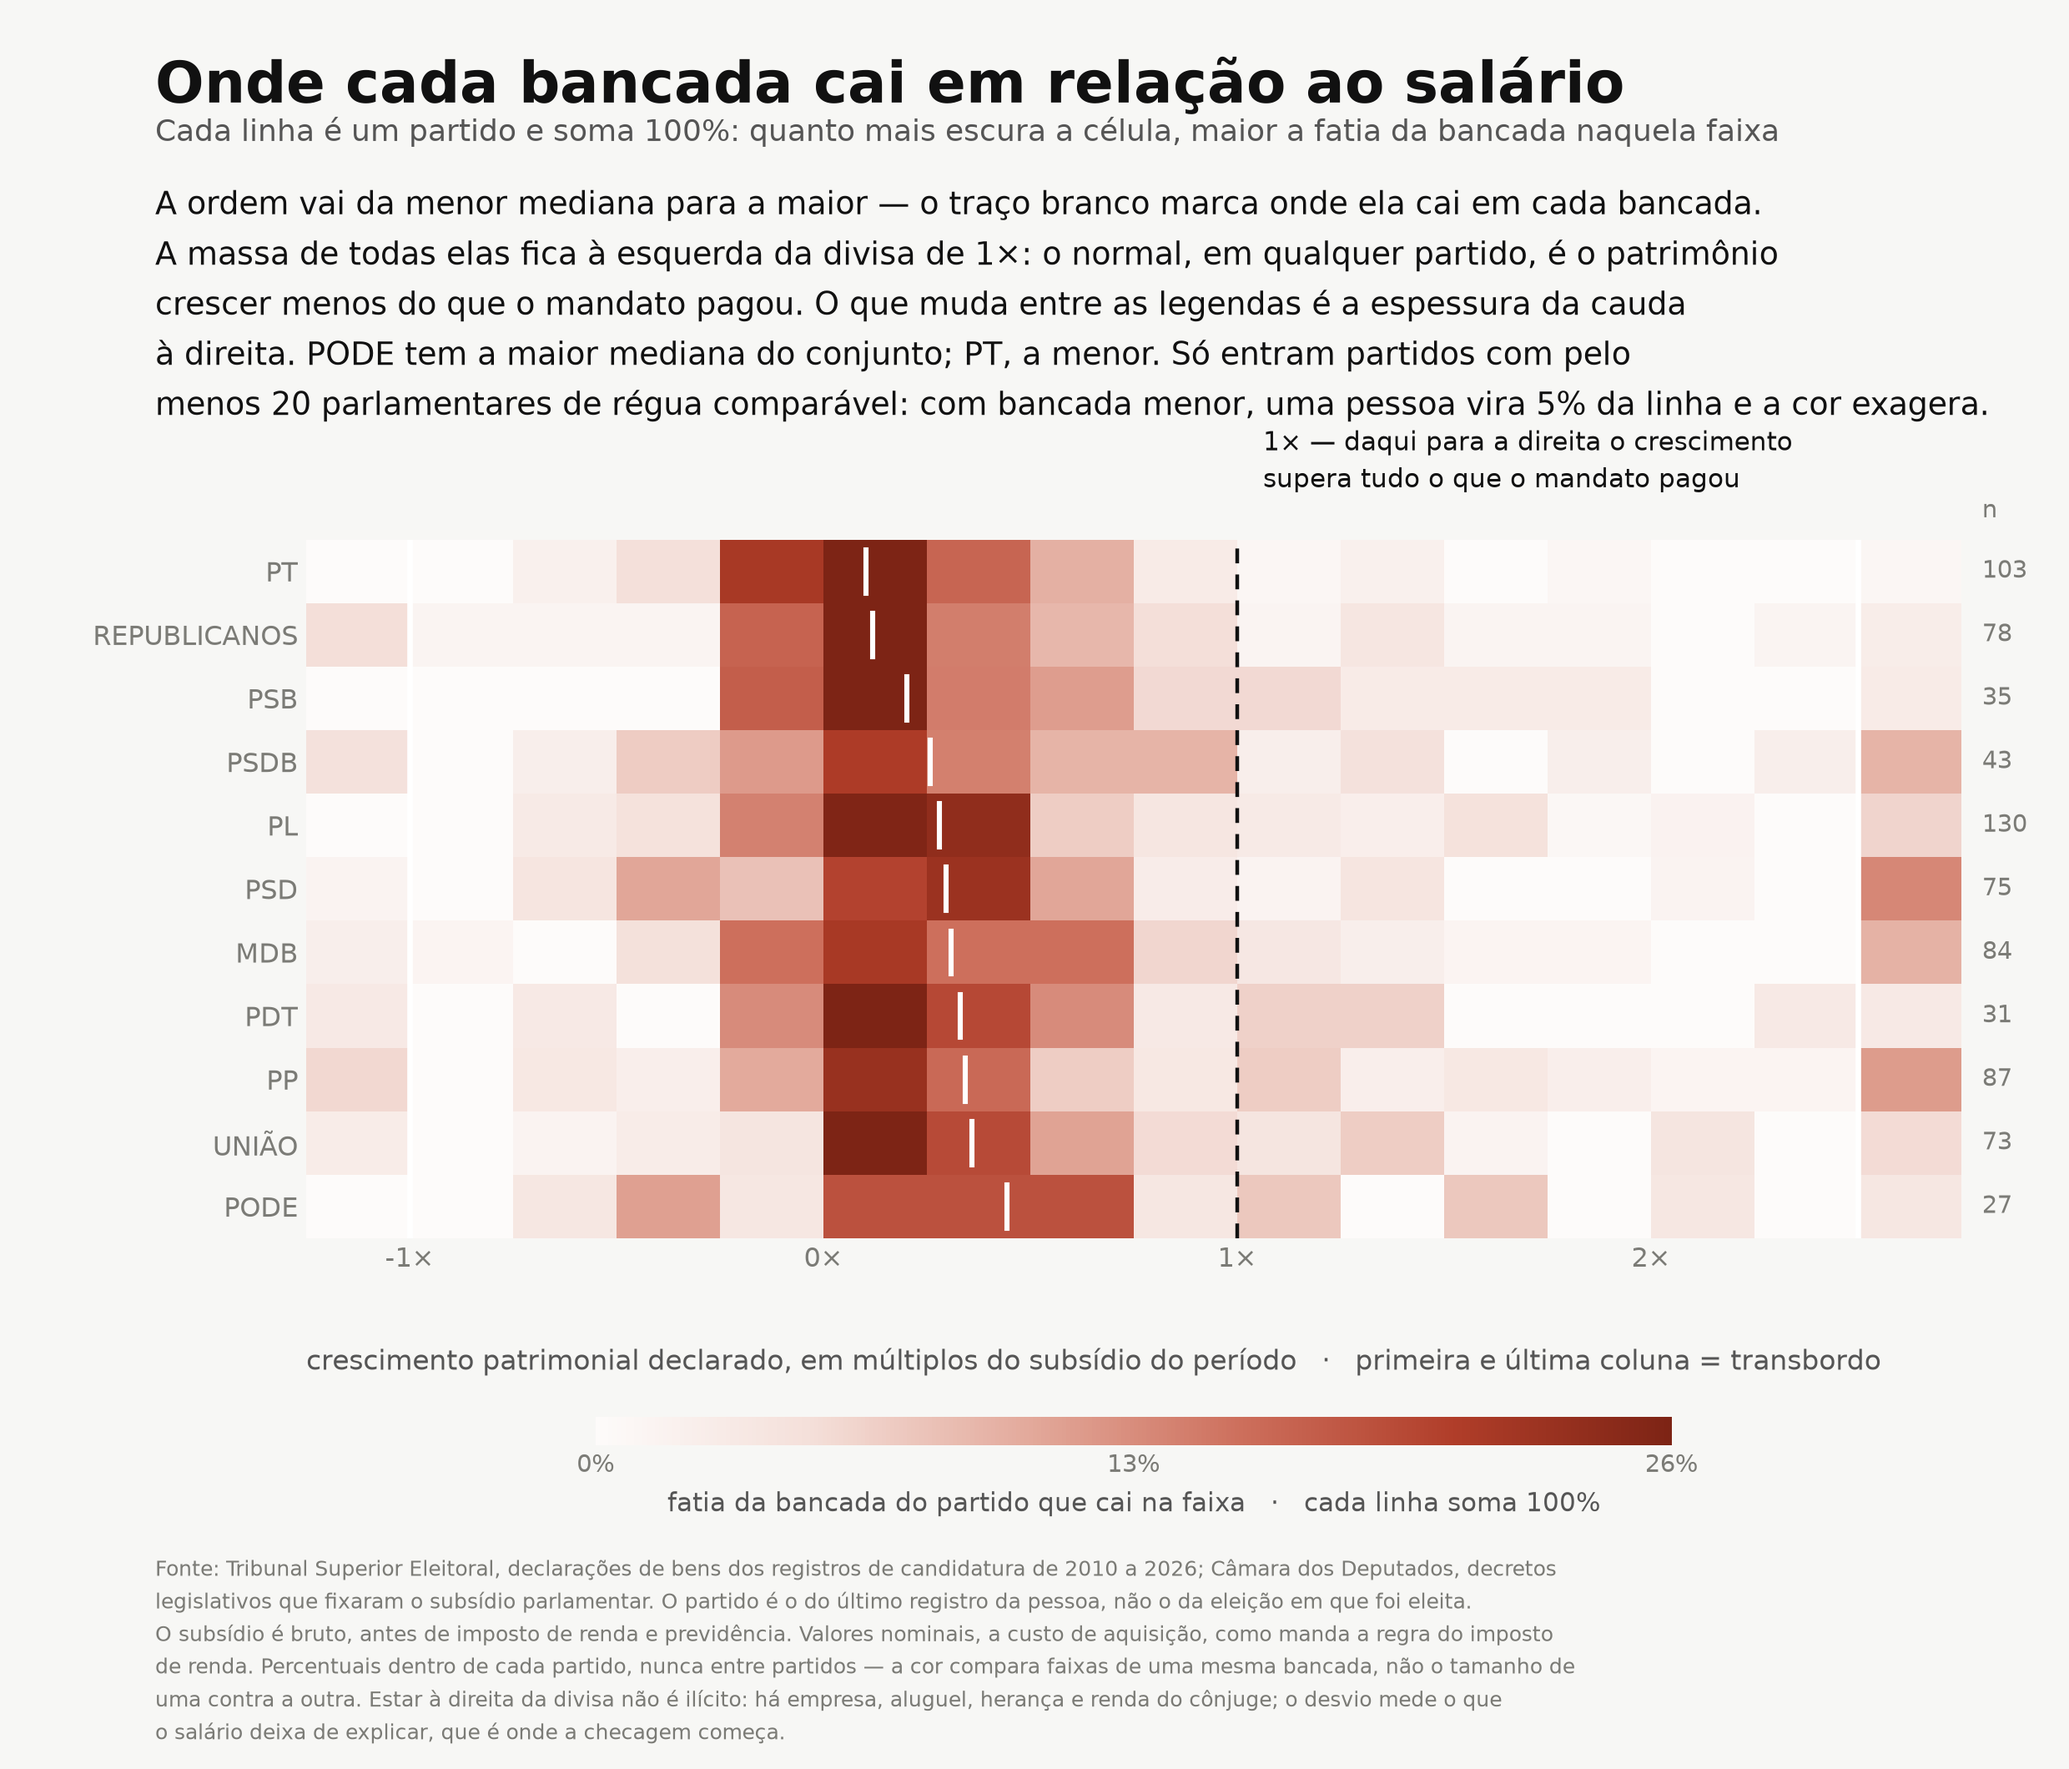
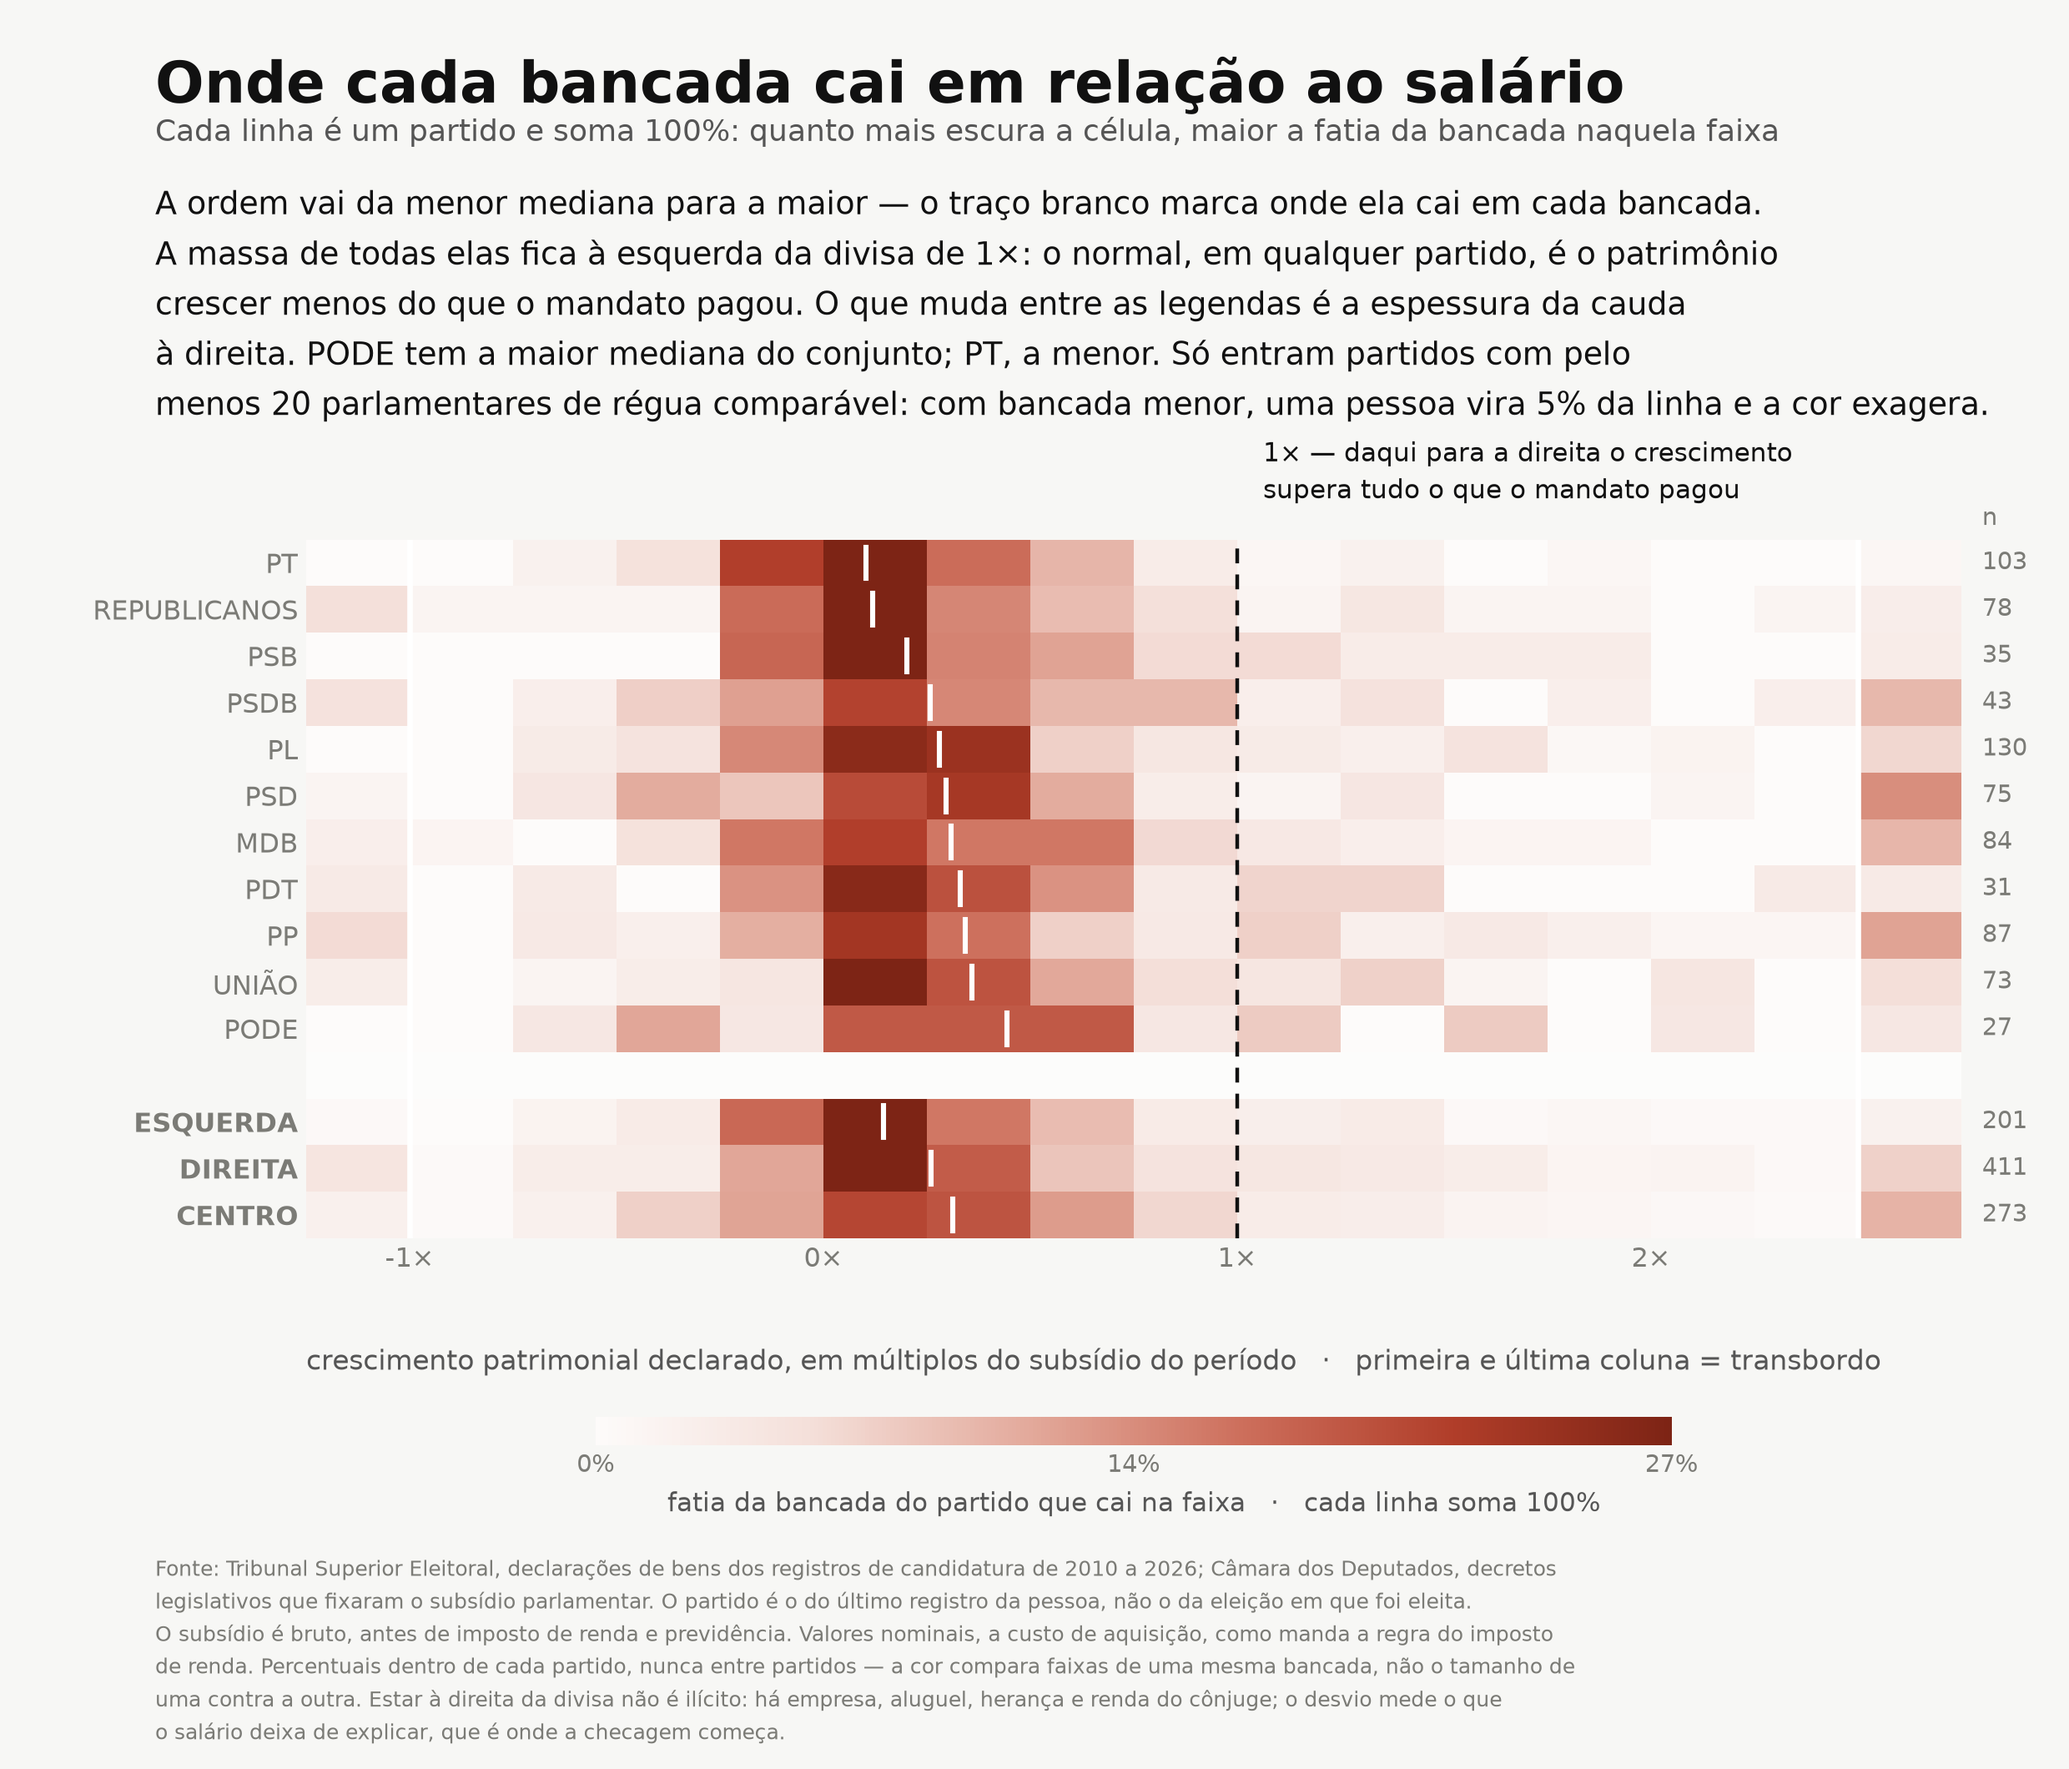
feat: agrega os blocos ideológicos no mapa de calor por partido
As três últimas linhas passam a trazer esquerda, centro e direita na mesma
escala das linhas de partido, porque a comparação entre blocos só se lê
junto com a variação dentro de cada um.

A esquerda tem metade da proporção acima da linha (10%) das outras duas,
mas centro e direita são indistinguíveis entre si — 19% e 20% —, o que
derruba a leitura de que o eixo esquerda-direita organize o fenômeno: se
organizasse, o centro ficaria no meio.

Cada bloco cobre quase toda a amplitude dos outros: direita de 0,12x
(REPUBLICANOS) a 0,36x (UNIÃO), centro de 0,26x (PSDB) a 0,44x (PODE),
esquerda de 0,10x (PT) a 0,33x (PDT). O que domina é a variação entre
pessoas da mesma legenda.

diff --git a/scripts/plot_partidos_desvio_regua.py b/scripts/plot_partidos_desvio_regua.py
@@ -50,9 +50,16 @@ RAMPA = LinearSegmentedColormap.from_list("rodado_seq", [
 
 
 def carrega(caminho):
+    """Devolve (partidos com bancada suficiente, os três blocos ideológicos).
+
+    Os blocos entram no mesmo mapa, embaixo, porque a pergunta "direita ou
+    esquerda" só se responde na mesma escala das linhas de partido — e a
+    resposta depende de ver as duas camadas juntas: a variação entre partidos
+    de um mesmo bloco é maior do que a variação entre os blocos.
+    """
     doc = json.loads(Path(caminho).read_text(encoding="utf-8"))
-    partidos = doc["meta"]["partidos"]
-    por_partido = {}
+    partidos, espectros = doc["meta"]["partidos"], doc["meta"]["espectros"]
+    por_partido, por_bloco = {}, {}
     for p in doc["pessoas"]:
         pts = p[5]
         if len(pts) < 2:
@@ -60,27 +67,42 @@ def carrega(caminho):
         regua = sum(x[REGUA] or 0 for x in pts)
         if regua < PISO_REGUA:
             continue
-        ix = pts[-1][1]
-        if ix < 0:
-            continue
         mult = (pts[-1][TOTAL] - pts[0][TOTAL]) / regua
-        por_partido.setdefault(partidos[ix], []).append(mult)
-    return {k: v for k, v in por_partido.items() if len(v) >= MIN_BANCADA}
+        ix = pts[-1][1]
+        if ix >= 0:
+            por_partido.setdefault(partidos[ix], []).append(mult)
+        if p[2] >= 0:
+            por_bloco.setdefault(espectros[p[2]], []).append(mult)
+    return ({k: v for k, v in por_partido.items() if len(v) >= MIN_BANCADA},
+            {b: por_bloco[b] for b in ("esquerda", "centro", "direita")
+             if b in por_bloco})
 
 
 def main():
     origem = sys.argv[1] if len(sys.argv) > 1 else "/tmp/patrimonio_dados.json"
-    dados = carrega(origem)
+    dados, blocos = carrega(origem)
     ordem = sorted(dados, key=lambda k: statistics.median(dados[k]))
+    ordem_bl = sorted(blocos, key=lambda k: statistics.median(blocos[k]))
     print(f"{len(ordem)} partidos com {MIN_BANCADA}+ · "
           f"{sum(len(v) for v in dados.values())} parlamentares")
+    for b in ordem_bl:
+        v = blocos[b]
+        print(f"  {b:9s} n={len(v):3d} mediana={statistics.median(v):.2f}x "
+              f"acima de 1x: {sum(1 for m in v if m>1)*100//len(v)}%")
+    # os blocos entram como linhas extras, separados por uma linha vazia
+    todos = ordem + [None] + ordem_bl
+    fonte = {**dados, **blocos}
 
     bordas = np.arange(LO, HI + PASSO / 2, PASSO)
     n_col = len(bordas) - 1 + 2                      # + transbordo dos dois lados
-    matriz = np.zeros((len(ordem), n_col))
+    matriz = np.full((len(todos), n_col), np.nan)
     medianas = []
-    for i, sigla in enumerate(ordem):
-        v = dados[sigla]
+    for i, sigla in enumerate(todos):
+        if sigla is None:
+            medianas.append(None)
+            continue
+        v = fonte[sigla]
+        matriz[i] = 0
         for m in v:
             if m < LO:
                 c = 0
@@ -92,7 +114,7 @@ def main():
         matriz[i] = matriz[i] / len(v) * 100
         medianas.append(statistics.median(v))
 
-    vmax = float(np.percentile(matriz[matriz > 0], 97))
+    vmax = float(np.percentile(matriz[np.nan_to_num(matriz) > 0], 97))
 
     fig = plt.figure(figsize=(12.4, 10.6), dpi=200, facecolor=FIG_BG)
     ax = fig.add_axes((0.148, 0.300, 0.800, 0.395))
@@ -100,8 +122,12 @@ def main():
     ax.imshow(matriz, aspect="auto", cmap=RAMPA, norm=Normalize(0, vmax),
               interpolation="nearest")
 
-    ax.set_yticks(range(len(ordem)))
-    ax.set_yticklabels([f"{s}" for s in ordem], fontsize=12, color=TXT)
+    ax.set_yticks(range(len(todos)))
+    ax.set_yticklabels(["" if s is None else s.upper() if s in blocos else s
+                        for s in todos], fontsize=12, color=TXT)
+    for t, s_ in zip(ax.get_yticklabels(), todos):
+        if s_ in blocos:
+            t.set_fontweight("bold")
     ax.tick_params(colors=TXT3, length=0, labelsize=11.5)
     for sp in ax.spines.values():
         sp.set_visible(False)
@@ -125,12 +151,16 @@ def main():
 
     # mediana de cada partido, no mesmo traço branco da figura do câncer
     for i, m in enumerate(medianas):
+        if m is None:
+            continue
         x = 0 if m < LO else n_col - 1 if m >= HI else 1 + (m - LO) / PASSO - 0.5
         ax.plot([x, x], [i - 0.34, i + 0.34], color="#ffffff", lw=2.2, zorder=6)
 
-    # N de cada bancada, fora da matriz
-    for i, sigla in enumerate(ordem):
-        ax.text(n_col - 0.3, i, str(len(dados[sigla])), fontsize=10.5,
+    # N de cada linha, fora da matriz
+    for i, sigla in enumerate(todos):
+        if sigla is None:
+            continue
+        ax.text(n_col - 0.3, i, str(len(fonte[sigla])), fontsize=10.5,
                 color=TXT3, va="center", ha="left")
     ax.text(n_col - 0.3, -0.95, "n", fontsize=10.5, color=TXT3,
             va="center", ha="left")

diff --git a/pages/analises/results/bens-dos-candidatos.md b/pages/analises/results/bens-dos-candidatos.md
@@ -62,6 +62,30 @@ o mapa cobra cautela: só entram partidos com pelo menos 20 parlamentares de ré
 partido considerado é o do último registro e não o da eleição em que a pessoa foi eleita, e
 diferenças de poucos pontos entre bancadas de 30 pessoas não sobrevivem ao acaso.
 
+**E direita contra esquerda?** As três últimas linhas do mapa agregam os partidos por bloco
+ideológico, na mesma escala:
+
+| bloco | n | mediana | acima de 1× |
+|---|---:|---:|---:|
+| esquerda | 201 | 0,15× | 20 (10%) |
+| direita | 411 | 0,26× | 82 (20%) |
+| centro | 273 | 0,31× | 52 (19%) |
+
+A esquerda tem metade da proporção das outras duas acima da linha. Mas **centro e direita são
+indistinguíveis entre si** — 19% e 20% —, o que já derruba a leitura de que o eixo esquerda-direita
+organize o fenômeno: se organizasse, o centro ficaria no meio, e ele não fica.
+
+O que enfraquece de vez a explicação por bloco é a variação **dentro** de cada um. Na direita, a
+mediana vai de 0,12× no REPUBLICANOS a 0,36× no UNIÃO; no centro, de 0,26× no PSDB a 0,44× no
+PODE; na esquerda, de 0,10× no PT a 0,33× no PDT. Cada bloco cobre quase toda a amplitude dos
+outros. Saber o partido de alguém informa mais sobre o patrimônio declarado dele do que saber
+o lado do espectro — e saber qualquer um dos dois informa pouco, porque o que domina é a
+variação entre pessoas da mesma legenda.
+
+Vale lembrar também que os blocos têm tamanhos muito diferentes — 411 à direita contra 201 à
+esquerda —, o que faz a direita concentrar mais casos absolutos acima da linha (82 contra 20)
+simplesmente por ser maior. É por isso que a comparação aqui é sempre proporcional.
+
 **O salário ficou parado oito anos.** O subsídio de deputado federal foi fixado em R$ 33.763 com
 efeitos a partir de fevereiro de 2015 e só mudou em janeiro de 2023, quando passou a R$ 39.293.
 As legislaturas 2015-2018 e 2019-2022 inteiras correram com o mesmo valor nominal. Por isso a
